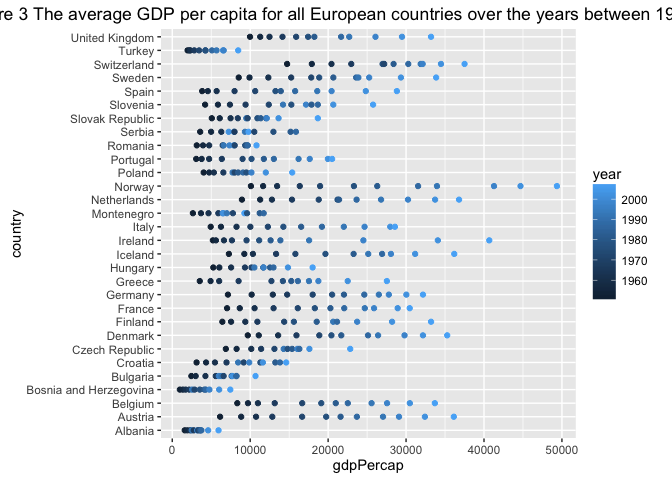
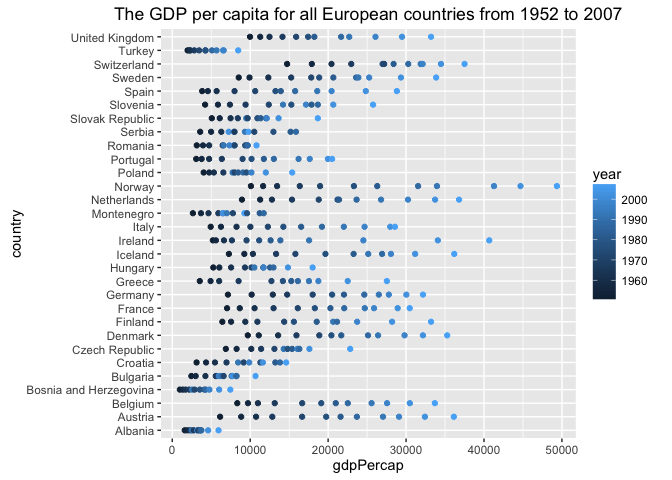
Homework 05

Changed region(s): [[0.0, 0.0, 1.0, 0.0625]]

diff --git a/hw05_factor-and-figure-management.md b/hw05_factor-and-figure-management.md
@@ -1217,7 +1217,7 @@ From the three tables above, we can see that the output table of the reordered d
 gap_euro %>% 
   ggplot(aes(x = gdpPercap, y = country, color = year)) +
   geom_point() +
-  labs(title = "Figure 1 The GDP per capita for all European countries from 1952 to 2007")
+  labs(title = "The GDP per capita for all European countries from 1952 to 2007")
 ```
 
 ![](hw05_factor-and-figure-management_files/figure-markdown_github/unnamed-chunk-7-1.png)
@@ -1226,7 +1226,7 @@ gap_euro %>%
 gap_reordered %>% 
   ggplot(aes(x = gdpPercap, y = country, color = year)) +
   geom_point() +
-  labs(title = "Figure 2 The average GDP per capita for all European countries over the years between 1952 and 2007")
+  labs(title = "The GDP per capita for all European countries from 1952 to 2007")
 ```
 
 ![](hw05_factor-and-figure-management_files/figure-markdown_github/unnamed-chunk-7-2.png)
@@ -1235,7 +1235,7 @@ gap_reordered %>%
 gap_arranged %>% 
   ggplot(aes(x = gdpPercap, y = country, color = year)) +
   geom_point() +
-  labs(title = "Figure 3 The average GDP per capita for all European countries over the years between 1952 and 2007")
+  labs(title = "The GDP per capita for all European countries from 1952 to 2007")
 ```
 
 ![](hw05_factor-and-figure-management_files/figure-markdown_github/unnamed-chunk-7-3.png)
@@ -1619,7 +1619,7 @@ kable(gap_reordered_and_arranged)
 gap_reordered_and_arranged %>% 
   ggplot(aes(x = gdpPercap, y = country, color = year)) +
   geom_point() +
-  labs(title = "Figure 4 The average GDP per capita for all European countries over the years between 1952 and 2007")
+  labs(title = "The GDP per capita for all European countries from 1952 to 2007")
 ```
 
 ![](hw05_factor-and-figure-management_files/figure-markdown_github/unnamed-chunk-8-1.png)
